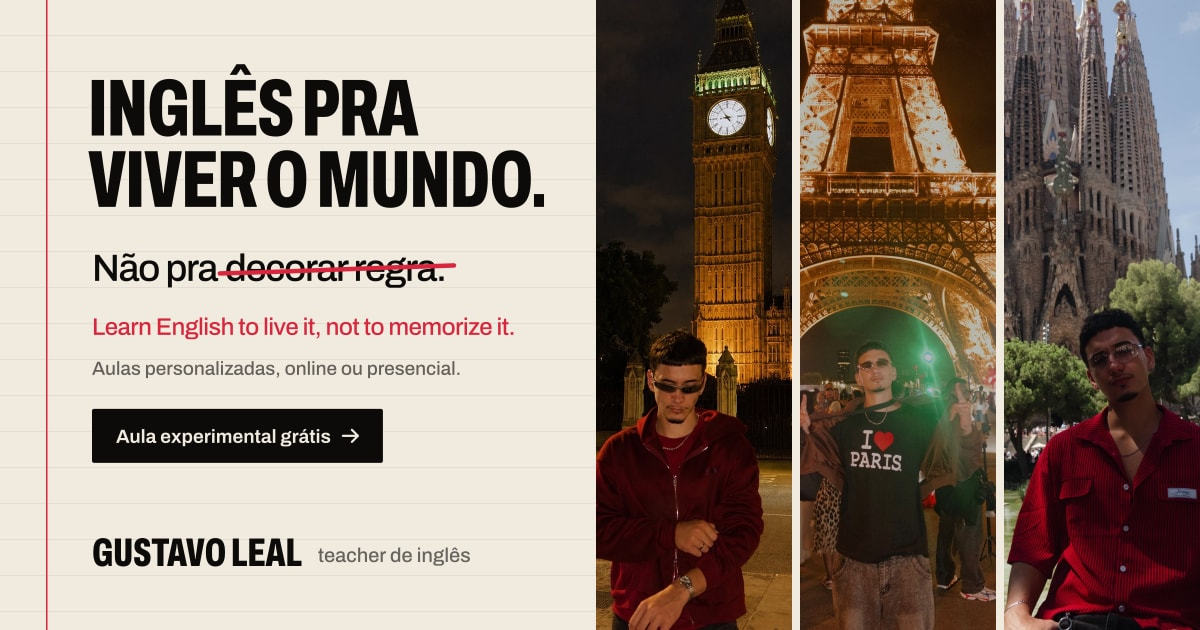
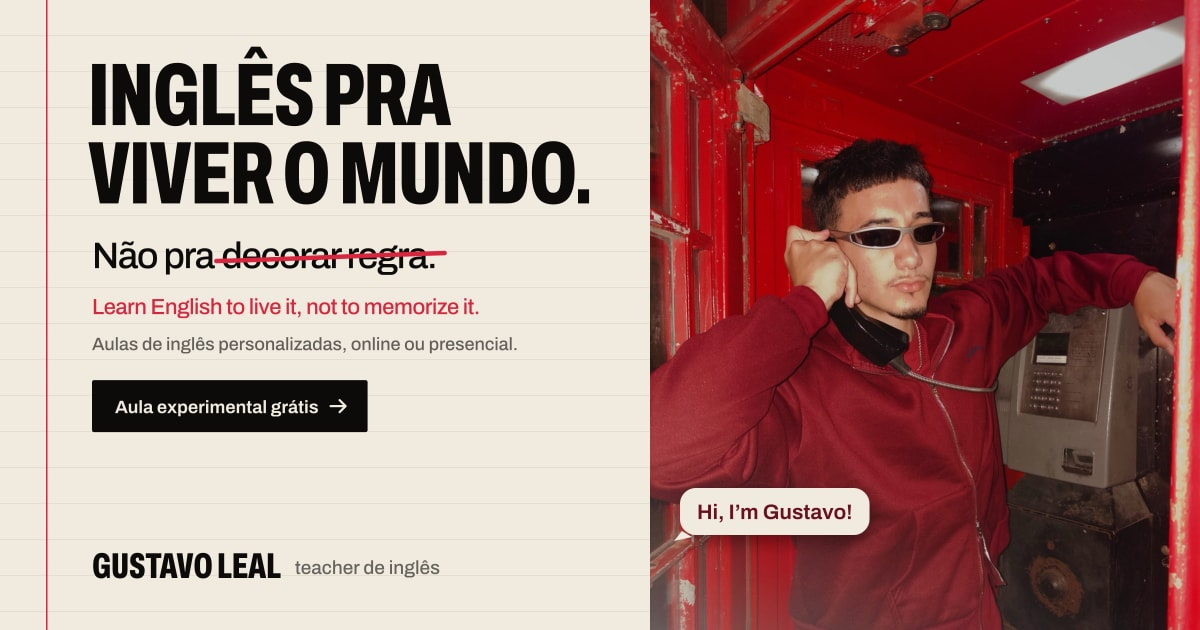
Capa do link com o professor em vez das viagens
A capa oficial passa a ser a da cabine (combina com a versão 1 do hero):
folha pautada com o título, "decorar regra" riscado, a legenda em inglês,
a linha sobre as aulas e o botão; à direita, ele na cabine vermelha com o
telefone no ouvido e o balão "Hi, I'm Gustavo!".

CAPA=cafe gera a alternativa do café (versão 2): ele numa mesa de café com
os balões da conversa. SAIDA grava em outro arquivo pra comparar.

Claude-Session: https://claude.ai/code/session_01HuVJ5d3avUy3wjszjDTTL1

diff --git a/index.html b/index.html
@@ -32,7 +32,7 @@
     <meta property="og:image:type" content="image/jpeg" />
     <meta property="og:image:width" content="1200" />
     <meta property="og:image:height" content="630" />
-    <meta property="og:image:alt" content="Inglês pra viver o mundo. Não pra decorar regra, com decorar regra riscado em vermelho. Learn English to live it, not to memorize it. Aulas personalizadas, online ou presencial, e o botão Aula experimental grátis. Ao lado, três fotos de Gustavo Leal: no Big Ben, em Londres, na Torre Eiffel, em Paris, e na Sagrada Família, em Barcelona." />
+    <meta property="og:image:alt" content="Inglês pra viver o mundo. Não pra decorar regra, com decorar regra riscado em vermelho. Learn English to live it, not to memorize it. Aulas de inglês personalizadas, online ou presencial, e o botão Aula experimental grátis. Ao lado, Gustavo Leal numa cabine telefônica vermelha, com o telefone no ouvido, dizendo Hi, I’m Gustavo!" />
     <meta name="twitter:card" content="summary_large_image" />
     <meta name="twitter:title" content="Gustavo Leal · Inglês pra viver o mundo, não pra decorar regra" />
     <meta name="twitter:description" content="Aulas de inglês personalizadas com conversação, música, filmes e situações reais." />
